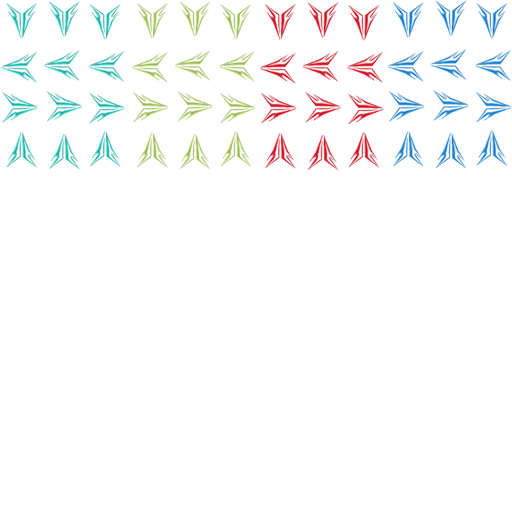
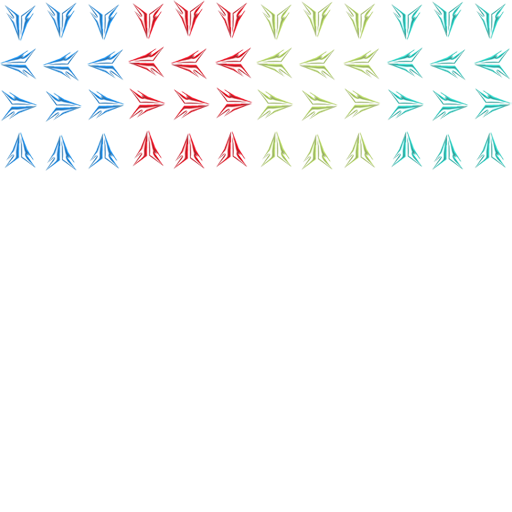
refactored uv

Changed region(s): [[0.0, 0.0, 1.0, 0.3438]]

diff --git a/RTS/graphics/GLInstancedSprites.cpp b/RTS/graphics/GLInstancedSprites.cpp
@@ -52,27 +52,32 @@ GLuint GLInstancedSprites::newSpriteSheet(const char* spritePath){
 	unsigned int w, h;
 	unsigned int error = 0;
 	std::vector<unsigned char> image;
+	spriteUVCoeff = Vector2(1.0f, 1.0f);
 	if (CharHelper::charEndsWith(spritePath, "png")) {
 		std::vector<unsigned char> pngData; //the raw pixels
-		
-		lodepng::State load_state;
-
-		//lodepng::decode(image, w, h, load_state);
 		error = lodepng::load_file(pngData, spritePath);
 		assert(error == 0);
 		error = lodepng::decode(image, w, h, pngData);
-		CharBuffer* uvTxtBuffer = CharHelper::loadTextFile("assets/terrain_packed.txt");
-		std::vector<SpriteSheetUV> uvDesc;
-		CharHelper::parseUVTxt(uvTxtBuffer->buffer, uvDesc);
-		for (int i = 0; i < uvDesc.size(); ++i) {
-			uvDesc[i].left_bottom.x /= (float)w;
-			uvDesc[i].left_bottom.y /= (float)h;
+		// attempt to load the atlas info file.
+		char atlasInfoFileName[256];
+		strcpy_s(atlasInfoFileName, 256, spritePath);
+		strcat_s(atlasInfoFileName, 256, ".atlas");
+		CharBuffer* uvTxtBuffer = CharHelper::loadTextFile(atlasInfoFileName);
+		if (uvTxtBuffer != nullptr) {
+			CharHelper::parseUVTxt(uvTxtBuffer->buffer, uvDesc);
+			spriteUVCoeff = uvDesc[0].left_bottom;
+			for (int i = 1; i < uvDesc.length; ++i) {
+				
+				uvDesc[i].left_bottom.x /= (float)w;
+				uvDesc[i].left_bottom.y /= (float)h;
 
-			uvDesc[i].right_top.x /= (float)w;
-			uvDesc[i].right_top.y /= (float)h;
+				uvDesc[i].right_top.x /= (float)w;
+				uvDesc[i].right_top.y /= (float)h;
+				SpriteSheetUV cur = uvDesc[i];
+				int sdf = 0;
+			}
+			uvTxtBuffer->dispose();
 		}
-		int sdf = 0;
-		uvTxtBuffer->dispose();
 	}
 	else if (CharHelper::charEndsWith(spritePath, "jpg")) {
 		cimg_library::CImg<unsigned char> jpg_image(spritePath);
@@ -89,18 +94,42 @@ GLuint GLInstancedSprites::newSpriteSheet(const char* spritePath){
 	// create texture in GPU.
 	textureId = createTexture(w, h, image.data());
 	return textureId;
-
 }
 int GLInstancedSprites::newSprite(Vector2 pos, Vector2 uv) {
 	GLuint er;
 	int cur = spriteDesc.length;
-	const float unitUV = 1.0f / 12.0f;
+	//const float unitUV = 1.0f / 12.0f;
 	SpriteDesc newDesc;
 	newDesc.pos = pos;
 	newDesc.rotation = 0;
 	newDesc.scale = Vector2(1, 1);
-	newDesc.uv.x = uv.x * unitUV;
-	newDesc.uv.y = uv.y * unitUV;
+	newDesc.uv.x = uv.x;
+	newDesc.uv.y = uv.y;
+	spriteDesc.push(newDesc);
+	return cur;
+}
+
+int GLInstancedSprites::newSpriteWithUVId(Vector2 pos, const char* uvId) {
+	GLuint er;
+	int cur = spriteDesc.length;
+	Vector2 uv = Vector2::zero();
+	bool found = false;
+	for (int i = 0; i < uvDesc.length; ++i) {
+		if (strcmp(uvId, uvDesc[i].name) == 0) {
+			found = true;
+			uv = uvDesc[i].left_bottom;
+			break;
+		}
+	}
+
+	if (found == false)return -1;
+
+	SpriteDesc newDesc;
+	newDesc.pos = pos;
+	newDesc.rotation = 0;
+	newDesc.scale = Vector2(1, 1);
+	newDesc.uv = uv;
+	//newDesc.uv = Vector2(0.0f, 0.0f);
 	spriteDesc.push(newDesc);
 	return cur;
 }
@@ -135,6 +164,8 @@ void GLInstancedSprites::onRender(glm::mat4 proj_view_mat){
 	glUseProgram(shaderHnd);
 	//glEnable(GL_CULL_FACE);
 	glUniformMatrix4fv(viewprojMatrixHnd, 1, GL_FALSE, &proj_view_mat[0][0]);
+	glUniform2fv(spriteUVCoeffHnd, 1, &(spriteUVCoeff.x));
+	
 	glEnable(GL_BLEND);
 	glBlendFunc(GL_SRC_ALPHA, GL_ONE_MINUS_SRC_ALPHA);
 
@@ -310,6 +341,7 @@ GLuint GLInstancedSprites::initShaders(const char* vertex_file_path, const char*
 
 	samplerVarHnd = glGetUniformLocation(ProgramID, "myTextureSampler");
 	viewprojMatrixHnd = glGetUniformLocation(ProgramID, "mat_view_proj");
+	spriteUVCoeffHnd = glGetUniformLocation(ProgramID, "sprite_uv_coeff");
 	//GLuint err = glGetError();
 	return ProgramID;
 }

diff --git a/RTS/gameplay/Terrain.cpp b/RTS/gameplay/Terrain.cpp
@@ -9,16 +9,22 @@ Terrain::~Terrain() {
 void Terrain::init() {
 	//textureId = G::instance()->renderer->newSpriteSheet(1000, 200, "assets/dirt.jpg");
 	textureId = G::instance()->renderer->newSpriteSheet("assets/terrain_packed.png");
-	spriteId = G::instance()->renderer->newSprite(textureId, pos, Vector2(0,0));
+	spriteId = G::instance()->renderer->newSprite(textureId, pos, "dirt");
+	G::instance()->renderer->updateSprite(textureId, spriteId, pos, 0.0f, Vector2(1, 1));
+
+	spriteId = G::instance()->renderer->newSprite(textureId, pos + Vector2(4, 0), "water");
+	G::instance()->renderer->updateSprite(textureId, spriteId, pos + Vector2(4, 0), 0.0f, Vector2(1, 1));
+	//G::instance()->renderer->updateSprite(textureId, spriteId, pos, 0.0f, scale);
+	
 }
 void Terrain::update(float deltaTime) {
 	
 }
-void Terrain::updateRectScale(Vector2 _scale) {
-	scale = _scale;
-	G::instance()->renderer->updateSprite(textureId, spriteId, pos, 0.0f, scale);
-}
-void Terrain::updateRectPos(Vector2 _pos) {
-	pos = _pos;
-	G::instance()->renderer->updateSprite(textureId, spriteId, pos, 0.0f, scale);
-}
+//void Terrain::updateRectScale(Vector2 _scale) {
+//	scale = _scale;
+//	G::instance()->renderer->updateSprite(textureId, spriteId, pos, 0.0f, scale);
+//}
+//void Terrain::updateRectPos(Vector2 _pos) {
+//	pos = _pos;
+//	G::instance()->renderer->updateSprite(textureId, spriteId, pos, 0.0f, scale);
+//}

diff --git a/RTS/gameplay/Scene.cpp b/RTS/gameplay/Scene.cpp
@@ -68,24 +68,26 @@ void Scene::initScene() {
 	addOObject(recastManager);
 
 	Unit* newUnit = newClass<Unit>("units");
-	newUnit->init(Vector2(0.5, 0), Vector2(7, 0));
+	newUnit->init(Vector2(0, 0), "green");
 	units.push(newUnit);
 
 	newUnit = newClass<Unit>("units");
-	newUnit->init(Vector2(-0.5, -0.5), Vector2(1, 0));
+	newUnit->init(Vector2(2, 0), "yellow");
 	units.push(newUnit);
 
 	newUnit = newClass<Unit>("units");
-	newUnit->init(Vector2(0.5, -0.5), Vector2(1, 0));
+	newUnit->init(Vector2(4, 0), "red");
 	units.push(newUnit);
 
 	newUnit = newClass<Unit>("units");
-	newUnit->init(Vector2(-1.5, 0.5), Vector2(1, 0));
+	newUnit->init(Vector2(6, 0), "blue");
 	units.push(newUnit);
 
-	newUnit = newClass<Unit>("units");
-	newUnit->init(Vector2(-0.5, -1.5), Vector2(1, 0));
+	/*newUnit = newClass<Unit>("units");
+	newUnit->init(Vector2(0.5, -0.5), "blue");
 	units.push(newUnit);
+
+	*/
 }
 void Scene::update(float timeElapsed) {
 	for (int i = 0; i < OObjectArray.length; ++i) {
@@ -95,8 +97,8 @@ void Scene::update(float timeElapsed) {
 		units[i]->update(timeElapsed);
 	}
 }
-void Scene::addUnit(Vector2 pos, Vector2 uv){
+void Scene::addUnit(Vector2 pos, const char* id){
 	Unit* newUnit = newClass<Unit>("units");
-	newUnit->init(pos, uv);
+	newUnit->init(pos, id);
 	units.push(newUnit);
 }

diff --git a/RTS/graphics/GLInstancedSprites.h b/RTS/graphics/GLInstancedSprites.h
@@ -30,13 +30,17 @@ class GLInstancedSprites{
 private:
 	GLuint vertex_buffer; // base vertex buffer
 	GLuint instance_buffer; // per instance data and states.
-
-	
 	GLuint textureId;
 	ArrayStruct<SpriteDesc> spriteDesc;
+	ArrayStruct<SpriteSheetUV> uvDesc;
 	int sprite_max; // number of sprite desc on gpu.
+
+	// shader uniform variables
+	Vector2 spriteUVCoeff;
+
 	GLuint samplerVarHnd;
 	GLuint viewprojMatrixHnd;
+	GLuint spriteUVCoeffHnd;
 	GLuint shaderHnd;
 	GLuint initShaders(const char* vertex_file_path, const char* fragment_file_path);
 	GLuint createTexture(unsigned int width, unsigned int height, const unsigned char* initialData);
@@ -47,6 +51,7 @@ public:
 	void onRender(glm::mat4 proj_view_mat);
 	GLuint newSpriteSheet(const char* spritePath);
 	int newSprite(Vector2 pos, Vector2 uv);
+	int newSpriteWithUVId(Vector2 pos, const char* uvId);
 	void updateSprite(int spriteId, Vector2 pos);
 	void updateSprite(int spriteId, Vector2 pos, float angle, Vector2 scale);
 	

diff --git a/RTS/misc/CharHelper.h b/RTS/misc/CharHelper.h
@@ -3,6 +3,7 @@
 #include <sstream>
 #include <vector>
 #include "../misc/SimpleVector.h"
+#include "../misc/ArrayT.h"
 #define TRACE(x)	do {std::stringstream s; s << x; OutputDebugStringA(s.str().c_str()); printf(s.str().c_str());} while (0)
 //#pragma comment(lib, "Rpcrt4.lib")
 // not using the memory allocator
@@ -43,7 +44,7 @@ public:
 	static IntVector2 charToIntVec2(const char* chars);
 	static unsigned int charHash(const char* chars);
 	static bool charEndsWith(const char* base_str, const char* cmp_str);
-	static void parseUVTxt(const char* content, std::vector<SpriteSheetUV>& out);
+	static void parseUVTxt(const char* content, ArrayStruct<SpriteSheetUV>& out);
 	static void CharHelper::trimString(const std::string& original, std::string& out);
 	//static void genGUID(OriGUID* guid);
 };

diff --git a/RTS/misc/CharHelper.cpp b/RTS/misc/CharHelper.cpp
@@ -135,7 +135,7 @@ bool CharHelper::charEndsWith(const char* base_str, const char* cmp_str) {
 	}
 	return same;
 }
-void CharHelper::parseUVTxt(const char* content, std::vector<SpriteSheetUV>& out) {
+void CharHelper::parseUVTxt(const char* content, ArrayStruct<SpriteSheetUV>& out) {
 	const std::string content_str(content);
 	std::vector<std::string> lines;
 	splitToLines(content_str, lines);
@@ -154,7 +154,7 @@ void CharHelper::parseUVTxt(const char* content, std::vector<SpriteSheetUV>& out
 		newSheetUV.right_top.x = charToFloat(pieces_numbers[2].c_str());
 		newSheetUV.right_top.y = charToFloat(pieces_numbers[3].c_str());
 
-		out.push_back(newSheetUV);
+		out.push(newSheetUV);
 	}
 }
 void CharHelper::trimString(const std::string& original, std::string& out) {

diff --git a/RTS/gameplay/Unit.cpp b/RTS/gameplay/Unit.cpp
@@ -8,13 +8,13 @@ Unit::Unit(){
 Unit::~Unit() {
 
 }
-void Unit::init(Vector2 pos, Vector2 uv) {
+void Unit::init(Vector2 pos, const char* id) {
 	textureId = OERenderer->newSpriteSheet("assets/arrows.png");
-	spriteDescId = OERenderer->newSprite(textureId, pos, uv);
+	spriteDescId = OERenderer->newSprite(textureId, pos, id);
 	this->pos = pos;
 }
 void Unit::update(float deltaTime) {
-	pos.x += deltaTime * 1.0f;
+	//pos.x += deltaTime * 1.0f;
 	OERenderer->updateSprite(textureId, spriteDescId, pos);
 	OERenderer->line2D(pos, pos + Vector2::one(), Color::blue());
 }

diff --git a/RTS/graphics/Renderer.h b/RTS/graphics/Renderer.h
@@ -39,7 +39,8 @@ namespace OriGraphics{
 
 		virtual int newSpriteSheet(const char* spritePath) = 0;
 		virtual int newSprite(int handle, Vector2 pos, Vector2 uv) = 0;
-		virtual void updateSprite(int textureId, int spriteId, Vector2 uv) = 0;
+		virtual int newSprite(int handle, Vector2 pos, const char* id) = 0;
+		virtual void updateSprite(int textureId, int spriteId, Vector2 pos) = 0;
 		virtual void updateSprite(int textureId, int spriteId, Vector2 pos, float angle, Vector2 scale) = 0;
 		virtual void updateCamera(Vector2 pos, float size);
 

diff --git a/RTS/graphics/GLManager.cpp b/RTS/graphics/GLManager.cpp
@@ -139,6 +139,9 @@ int GLManager::newSpriteSheet(const char* spritePath) {
 int GLManager::newSprite(int handle, Vector2 pos, Vector2 uv) {
 	return instancedSprites[handle]->newSprite(pos, uv);
 }
+int GLManager::newSprite(int handle, Vector2 pos, const char* id) {
+	return instancedSprites[handle]->newSpriteWithUVId(pos, id);
+}
 void GLManager::updateSprite(int textureId, int spriteId, Vector2 pos) {
 	instancedSprites[textureId]->updateSprite(spriteId, pos);
 }

diff --git a/RTS/graphics/GLManager.h b/RTS/graphics/GLManager.h
@@ -43,7 +43,9 @@ public:
 	void line2D(Vector2 pos0, Vector2 pos1, Color color);
 	int newSpriteSheet(const char* spritePath);
 	int newSprite(int handle, Vector2 pos, Vector2 uv);
-	void updateSprite(int textureId, int spriteId, Vector2 uv);
+	int newSprite(int handle, Vector2 pos, const char* id);
+	
+	void updateSprite(int textureId, int spriteId, Vector2 pos);
 	void updateSprite(int textureId, int spriteId, Vector2 pos, float angle, Vector2 scale);
 	
 };

diff --git a/RTS/gameplay/SelectorRect.cpp b/RTS/gameplay/SelectorRect.cpp
@@ -11,7 +11,7 @@ SelectorRect::~SelectorRect() {
 void SelectorRect::init() {
 	textureId = G::instance()->renderer->newSpriteSheet("assets/greenbar.png");
 	pos = Vector2(0.0f, 0.0f);
-	spriteId = G::instance()->renderer->newSprite(textureId, pos, Vector2(0,0));
+	spriteId = G::instance()->renderer->newSprite(textureId, pos, "bar");
 }
 void SelectorRect::update(float deltaTime) {
 	

diff --git a/RTS/gameplay/InputManager.h b/RTS/gameplay/InputManager.h
@@ -1,11 +1,10 @@
 #pragma once
 #include "../graphics/Renderer.h"
-#include "../graphics/Renderer.h"
 #include "../misc/CharHelper.h"
 #include "../misc/Macros.h"
 #include "../misc/ArrayT.h"
 #include "OObject.h"
-#include "SelectorRect.h"
+class SelectorRect;
 class InputManager : public OObject {
 private:
 	bool leftButtonDown; // selecting
